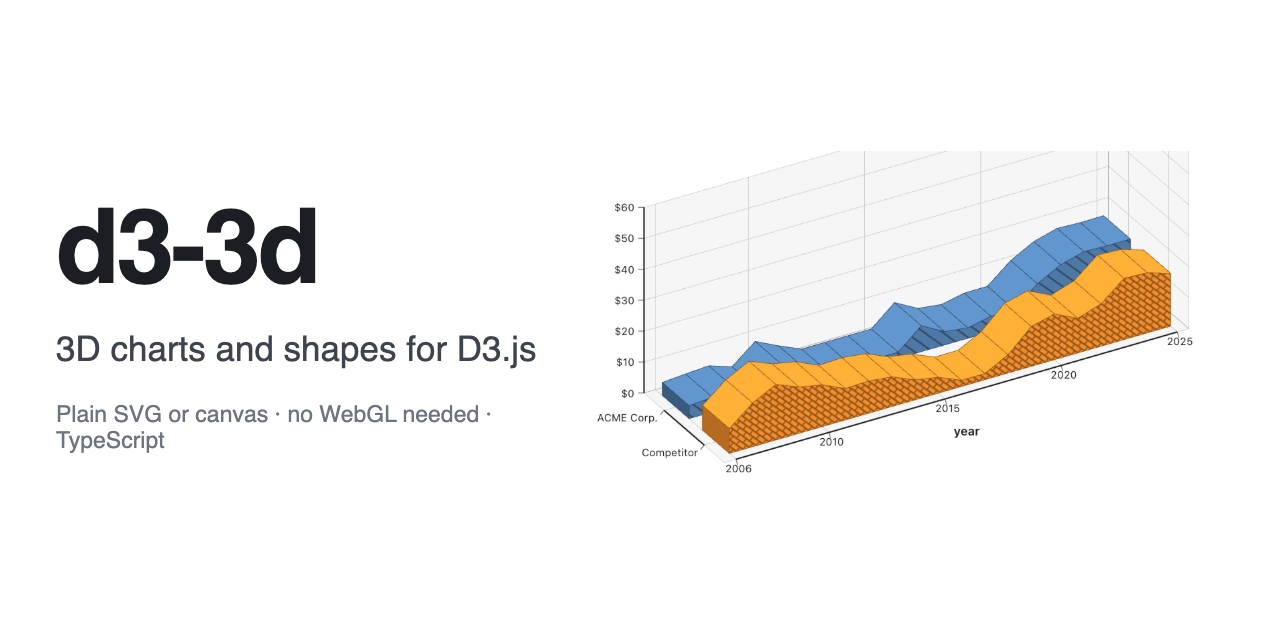
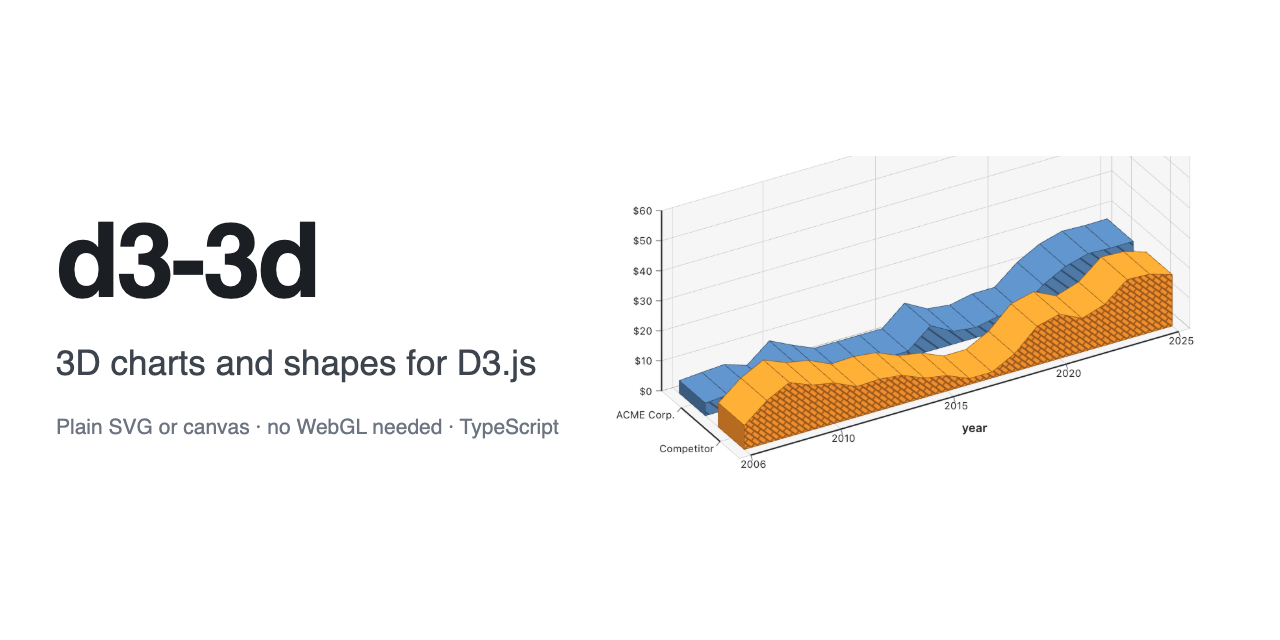
📝 docs: use the same pitch on npm and the docs site

diff --git a/docs/.vitepress/config.ts b/docs/.vitepress/config.ts
@@ -17,7 +17,17 @@ const properties = new Set(['ccw', 'centroid']);
 
 export default defineConfig({
     title: 'd3-3d',
-    description: 'D3.js plugin for 3D visualization, written in TypeScript.',
+    description:
+        '3D charts and shapes for D3.js. Projects 3D data to plain SVG or canvas, no WebGL needed. TypeScript.',
+    head: [
+        [
+            'meta',
+            {
+                property: 'og:image',
+                content: 'https://raw.githubusercontent.com/niekes/d3-3d/master/assets/social-card.png'
+            }
+        ]
+    ],
     base: '/d3-3d/',
     markdown: {
         // Link every inline `name` of the API to its entry, except in

diff --git a/docs/index.md b/docs/index.md
@@ -2,8 +2,8 @@
 layout: home
 hero:
     name: d3-3d
-    text: 3D visualizations for the web
-    tagline: A D3.js plugin for projecting 3D data onto the screen — with first-class TypeScript support.
+    text: 3D charts and shapes for D3.js
+    tagline: Projects 3D data to plain SVG or canvas, no WebGL needed. Written in TypeScript.
     actions:
         - theme: brand
           text: Get Started
